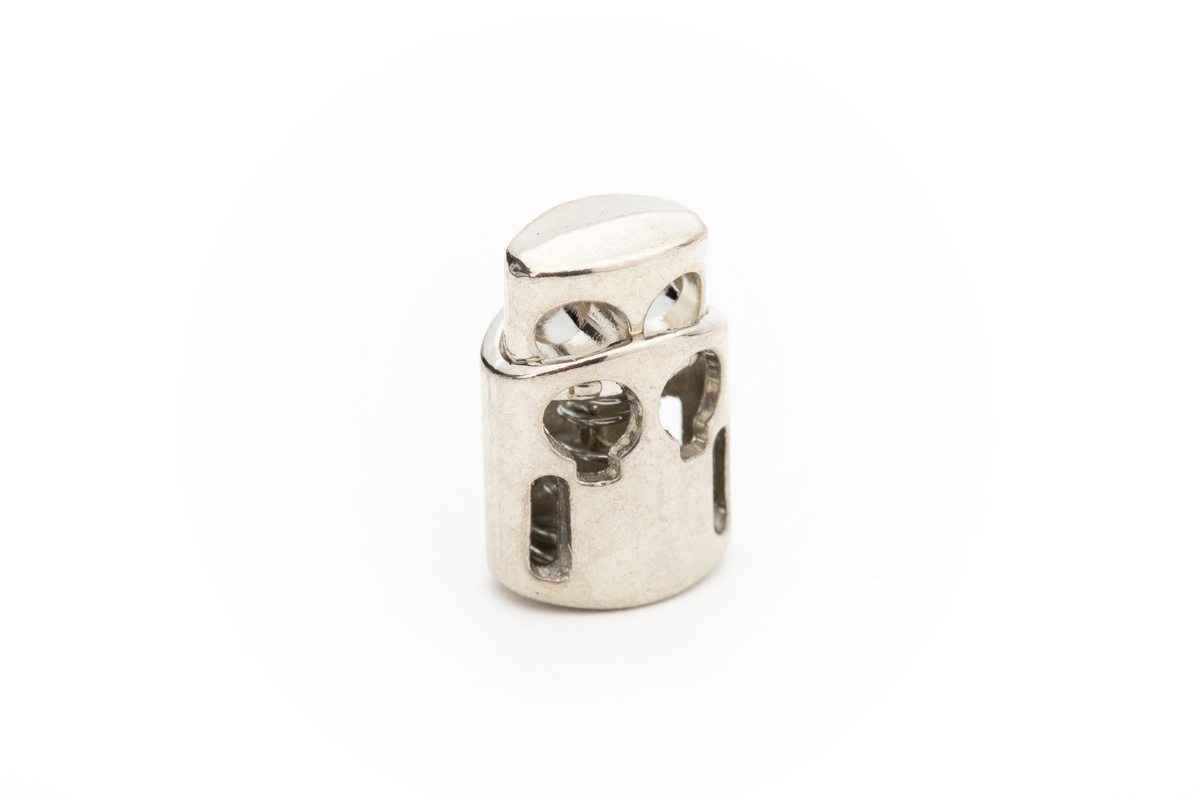
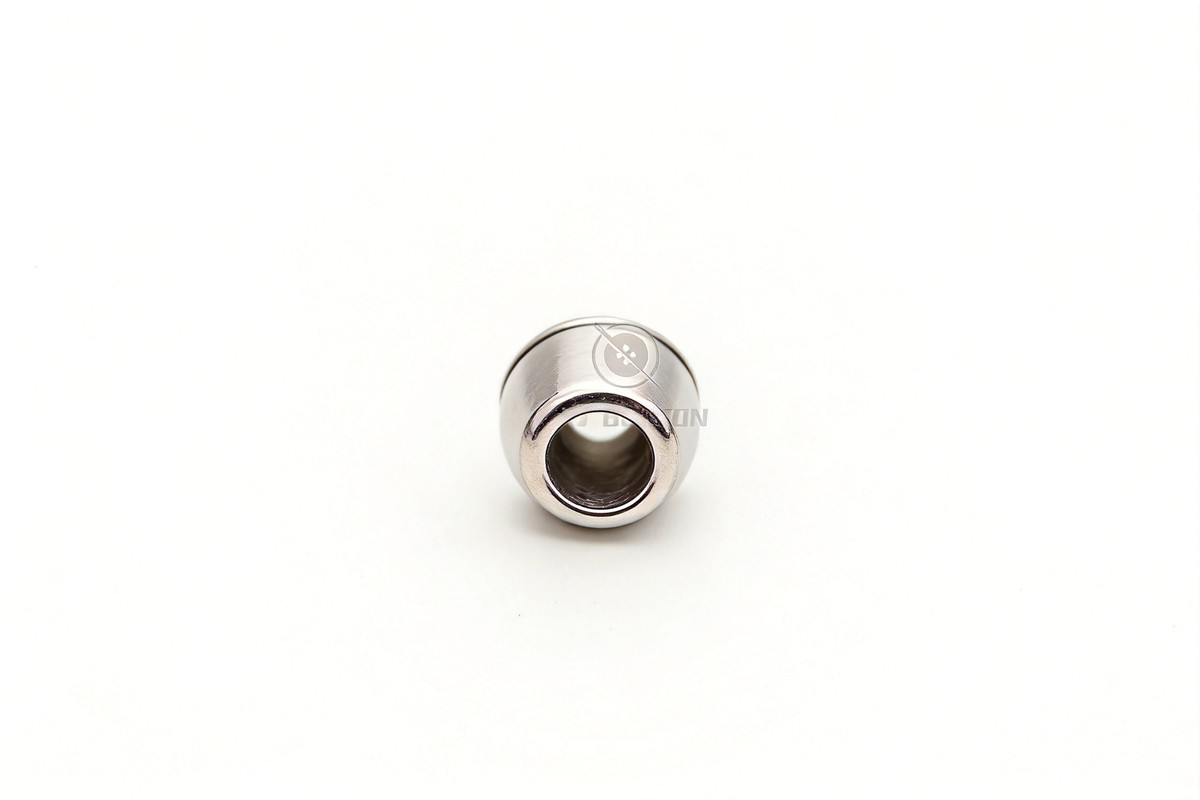
Fix: 1) Remove duplicate Shell/Resin/ShankMetal from Complete Collection; 2) Replace metal-end images with correct ones (not stopper)

Changed region(s): [[0.4008, 0.2188, 0.6167, 0.7812]]

diff --git a/index.html b/index.html
@@ -1436,36 +1436,6 @@
             </div>
             
                         <div class="grid grid-cols-1 sm:grid-cols-2 lg:grid-cols-3 xl:grid-cols-4 gap-8">
-                <!-- Shell Buttons -->
-                <div class="product-card group bg-white rounded-2xl overflow-hidden shadow-lg reveal border-2 border-transparent hover:border-accent">
-                    <div class="product-carousel" id="carousel-shell-card">
-                        <div class="carousel-main" onclick="openLightboxFromCarousel('shell')">
-                            <img src="images/shell-button-1.jpg" alt="Shell Button" class="carousel-img">
-                            <div class="carousel-overlay"><span><i class="fas fa-search-plus mr-1"></i> View Full</span></div>
-                        </div>
-                        <button class="carousel-nav prev" onclick="event.stopPropagation(); prevCarousel('shell')"><i class="fas fa-chevron-left"></i></button>
-                        <button class="carousel-nav next" onclick="event.stopPropagation(); nextCarousel('shell')"><i class="fas fa-chevron-right"></i></button>
-                        <div class="carousel-dots">
-                            <button class="carousel-dot active" onclick="event.stopPropagation(); goToCarousel('shell', 0)"></button>
-                            <button class="carousel-dot" onclick="event.stopPropagation(); goToCarousel('shell', 1)"></button>
-                            <button class="carousel-dot" onclick="event.stopPropagation(); goToCarousel('shell', 2)"></button>
-                            <button class="carousel-dot" onclick="event.stopPropagation(); goToCarousel('shell', 3)"></button>
-                            <button class="carousel-dot" onclick="event.stopPropagation(); goToCarousel('shell', 4)"></button>
-                            <button class="carousel-dot" onclick="event.stopPropagation(); goToCarousel('shell', 5)"></button>
-                            <button class="carousel-dot" onclick="event.stopPropagation(); goToCarousel('shell', 6)"></button>
-                        </div>
-                    </div>
-                    <div class="p-6">
-                        <h3 class="text-xl font-bold text-primary mb-2">Shell Button</h3>
-                        <p class="text-gray-600 text-sm mb-3">Mother of Pearl buttons with iridescent natural luster</p>
-                        <div class="flex flex-wrap gap-2">
-                            <span class="text-xs bg-gray-100 text-gray-600 px-2 py-1 rounded">Shirts</span>
-                            <span class="text-xs bg-gray-100 text-gray-600 px-2 py-1 rounded">Blouses</span>
-                            <span class="text-xs bg-gray-100 text-gray-600 px-2 py-1 rounded">Luxury Apparel</span>
-                        </div>
-                    </div>
-                </div>
-                
                 <!-- Coconut Buttons -->
                 <div class="product-card group bg-white rounded-2xl overflow-hidden shadow-lg reveal border-2 border-transparent hover:border-eco">
                     <div class="product-carousel" id="carousel-coconut">
@@ -1543,69 +1513,6 @@
                             <span class="text-xs bg-eco/10 text-eco px-2 py-1 rounded">Knits</span>
                             <span class="text-xs bg-eco/10 text-eco px-2 py-1 rounded">Cardigans</span>
                             <span class="text-xs bg-eco/10 text-eco px-2 py-1 rounded">Children's Wear</span>
-                        </div>
-                    </div>
-                </div>
-                
-                <!-- Resin Button -->
-                <div class="product-card group bg-white rounded-2xl overflow-hidden shadow-lg reveal border-2 border-transparent hover:border-eco">
-                    <div class="product-carousel" id="carousel-resin-card">
-                        <div class="carousel-main" onclick="openLightboxFromCarousel('resin')">
-                            <img src="images/resin-button-1.jpg" alt="Resin Button" class="carousel-img">
-                            <div class="carousel-overlay"><span><i class="fas fa-search-plus mr-1"></i> View Full</span></div>
-                        </div>
-                        <button class="carousel-nav prev" onclick="event.stopPropagation(); prevCarousel('resin')"><i class="fas fa-chevron-left"></i></button>
-                        <button class="carousel-nav next" onclick="event.stopPropagation(); nextCarousel('resin')"><i class="fas fa-chevron-right"></i></button>
-                        <div class="carousel-dots">
-                            <button class="carousel-dot active" onclick="event.stopPropagation(); goToCarousel('resin', 0)"></button>
-                            <button class="carousel-dot" onclick="event.stopPropagation(); goToCarousel('resin', 1)"></button>
-                            <button class="carousel-dot" onclick="event.stopPropagation(); goToCarousel('resin', 2)"></button>
-                            <button class="carousel-dot" onclick="event.stopPropagation(); goToCarousel('resin', 3)"></button>
-                            <button class="carousel-dot" onclick="event.stopPropagation(); goToCarousel('resin', 4)"></button>
-                            <button class="carousel-dot" onclick="event.stopPropagation(); goToCarousel('resin', 5)"></button>
-                            <button class="carousel-dot" onclick="event.stopPropagation(); goToCarousel('resin', 6)"></button>
-                            <button class="carousel-dot" onclick="event.stopPropagation(); goToCarousel('resin', 7)"></button>
-                            <button class="carousel-dot" onclick="event.stopPropagation(); goToCarousel('resin', 8)"></button>
-                            <button class="carousel-dot" onclick="event.stopPropagation(); goToCarousel('resin', 9)"></button>
-                        </div>
-                    </div>
-                    <div class="p-6">
-                        <h3 class="text-xl font-bold text-primary mb-2">Resin Button</h3>
-                        <p class="text-gray-600 text-sm mb-3">GRS certified recycled resin materials</p>
-                        <div class="flex flex-wrap gap-2">
-                            <span class="text-xs bg-eco/10 text-eco px-2 py-1 rounded">General Apparel</span>
-                            <span class="text-xs bg-eco/10 text-eco px-2 py-1 rounded">Uniforms</span>
-                            <span class="text-xs bg-eco/10 text-eco px-2 py-1 rounded">Mass Production</span>
-                        </div>
-                    </div>
-                </div>
-                
-                <!-- Shank Metal Button -->
-                <div class="product-card group bg-white rounded-2xl overflow-hidden shadow-lg reveal border-2 border-transparent hover:border-accent">
-                    <div class="product-carousel" id="carousel-shankMetal-card">
-                        <div class="carousel-main" onclick="openLightboxFromCarousel('shankMetal')">
-                            <img src="images/shank-metal-button-1.jpg" alt="Shank Metal Button" class="carousel-img">
-                            <div class="carousel-overlay"><span><i class="fas fa-search-plus mr-1"></i> View Full</span></div>
-                        </div>
-                        <button class="carousel-nav prev" onclick="event.stopPropagation(); prevCarousel('shankMetal')"><i class="fas fa-chevron-left"></i></button>
-                        <button class="carousel-nav next" onclick="event.stopPropagation(); nextCarousel('shankMetal')"><i class="fas fa-chevron-right"></i></button>
-                        <div class="carousel-dots">
-                            <button class="carousel-dot active" onclick="event.stopPropagation(); goToCarousel('shankMetal', 0)"></button>
-                            <button class="carousel-dot" onclick="event.stopPropagation(); goToCarousel('shankMetal', 1)"></button>
-                            <button class="carousel-dot" onclick="event.stopPropagation(); goToCarousel('shankMetal', 2)"></button>
-                            <button class="carousel-dot" onclick="event.stopPropagation(); goToCarousel('shankMetal', 3)"></button>
-                            <button class="carousel-dot" onclick="event.stopPropagation(); goToCarousel('shankMetal', 4)"></button>
-                            <button class="carousel-dot" onclick="event.stopPropagation(); goToCarousel('shankMetal', 5)"></button>
-                            <button class="carousel-dot" onclick="event.stopPropagation(); goToCarousel('shankMetal', 6)"></button>
-                        </div>
-                    </div>
-                    <div class="p-6">
-                        <h3 class="text-xl font-bold text-primary mb-2">Shank Metal Button</h3>
-                        <p class="text-gray-600 text-sm mb-3">Hand-sewn metal buttons for thick fabrics</p>
-                        <div class="flex flex-wrap gap-2">
-                            <span class="text-xs bg-gray-100 text-gray-600 px-2 py-1 rounded">Coats</span>
-                            <span class="text-xs bg-gray-100 text-gray-600 px-2 py-1 rounded">Jackets</span>
-                            <span class="text-xs bg-gray-100 text-gray-600 px-2 py-1 rounded">Blazers</span>
                         </div>
                     </div>
                 </div>